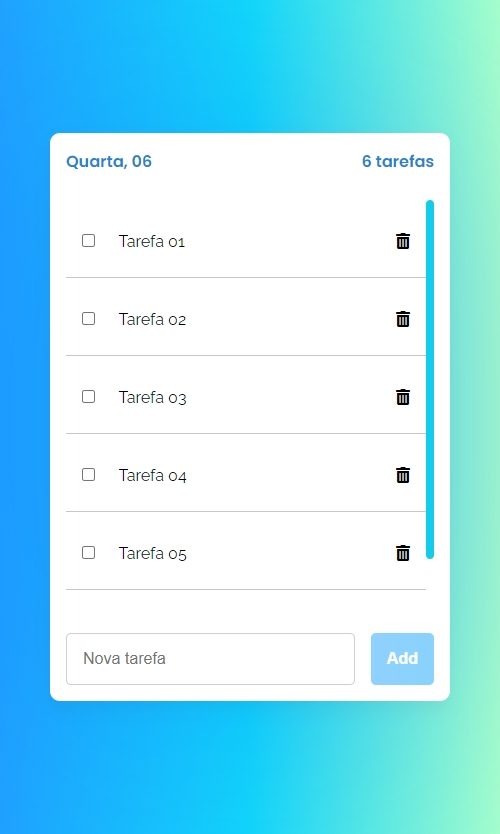
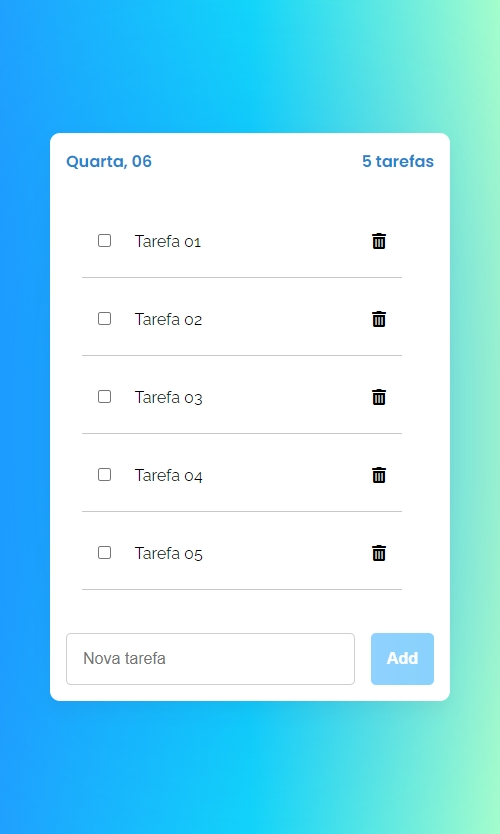
readme edit

diff --git a/style.css b/style.css
@@ -39,7 +39,8 @@ ul{
     min-height: 50vh; 
 
     overflow-y: auto;
-    margin: 1rem 0;
+    margin: 1rem;
+    padding-right: 1rem;
 
     font-family: 'Raleway', sans-serif;
 }
@@ -51,6 +52,7 @@ ul::-webkit-scrollbar {
 ul::-webkit-scrollbar-thumb {
     background: rgb(19, 204, 236);
     border-radius: 12px;
+    
 }
 
 li {
